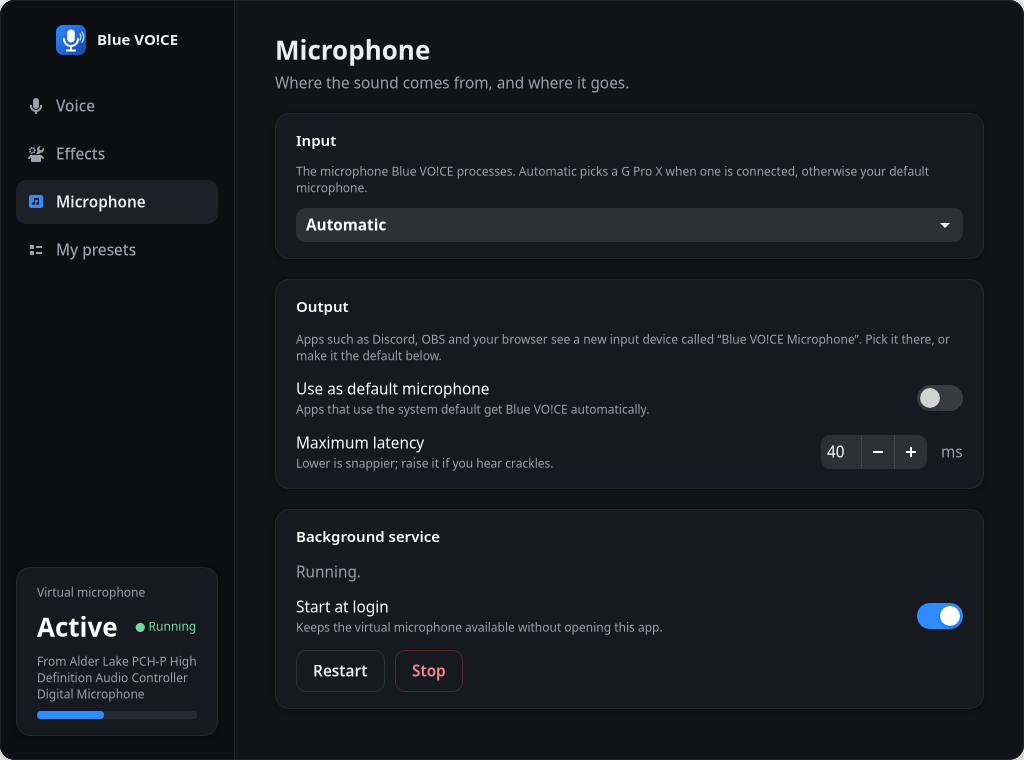
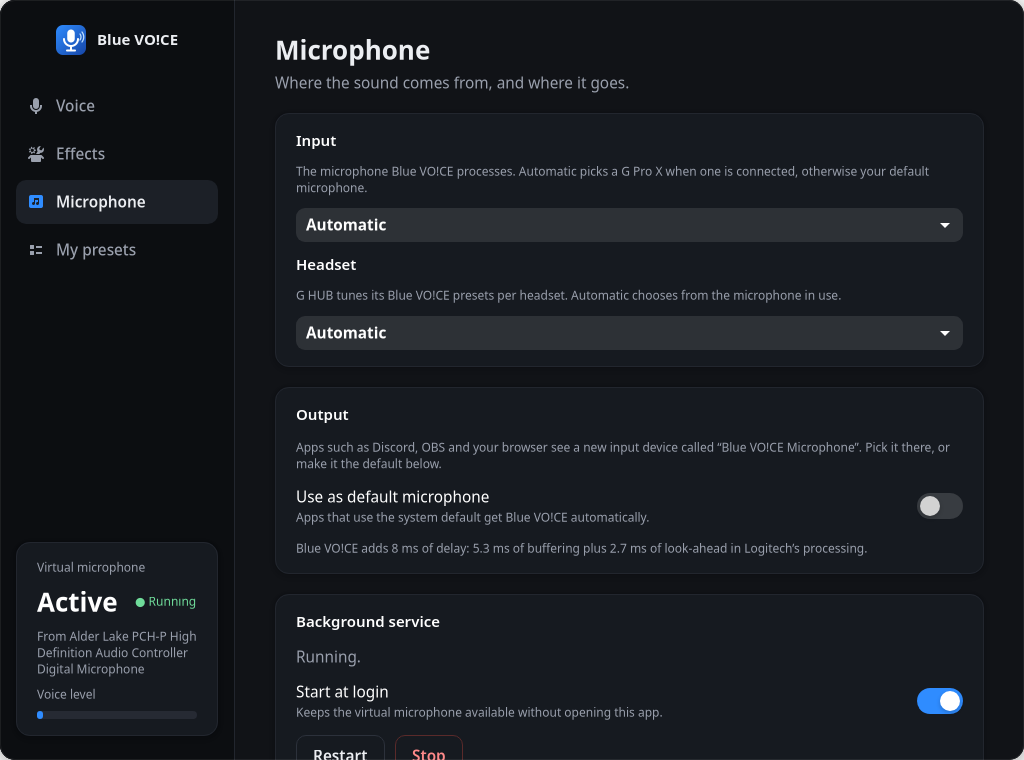
README rewrite, fresh screenshots, label the sidebar level meter
Claude-Session: https://claude.ai/code/session_01Uiivb3PxZfsMZ597LMVLgn

diff --git a/app.py b/app.py
@@ -634,8 +634,8 @@ class MainWindow(Adw.ApplicationWindow):
 		card.append(headline)
 		self.side_input = label('', ['muted', 'small'], wrap=True, max_width_chars=24)
 		card.append(self.side_input)
+		card.append(label('Voice level', ['muted', 'small']))
 		self.side_bar = meter_bar()
-		self.side_value = label('', ['value', 'small'])
 		card.append(self.side_bar)
 		side.append(card)
 		return side

diff --git a/README.md b/README.md
@@ -1,34 +1,33 @@
 # Blue VO!CE for Linux
 
-Logitech's Blue VO!CE microphone effects for the G Pro X headset, on Linux. The official
-G HUB software is Windows-only.
+I use a Logitech G Pro X, and the one thing I missed after moving to Linux was Blue VO!CE.
+G HUB only runs on Windows, so I took it apart to see where Blue VO!CE actually lives.
 
-This is not a remake: it runs **Logitech's own Blue VO!CE DSP** — the audio effect G HUB
-installs on Windows — natively, inside a small PipeWire filter (no Wine), and gives you its
-output as a normal microphone that any app can use. The output is bit-for-bit identical to the
-Windows effect for all 22 presets.
+Turns out it isn't in the headset at all. It's a Windows audio effect that G HUB installs, a
+DLL built on DTS's MicOpt library. This project loads that same DLL on Linux, without Wine,
+and puts the result on a virtual microphone. Same code Logitech ships, so it sounds the same:
+I checked all 22 presets against the Windows effect and the output is identical, sample for
+sample.
 
-![Voice page with live levels and the G HUB presets](docs/screenshots/voice.png)
+![Voice page](docs/screenshots/voice.png)
 
-## What it does
+## What you get
 
-- **Blue VO!CE on/off** — off is a clean pass-through, so apps keep their microphone
-- **All 22 G HUB presets** for the G Pro X — Broadcaster, AM Radio, FM Station, the pro-player
-  presets and more, with the exact values G HUB uses
-- **Every effect, live** — high-pass filter, noise reduction, noise gate, 3-band voice EQ,
-  de-esser, compressor and limiter, each with the same controls as G HUB's advanced mode;
-  changes crossfade in without clicks
-- **A virtual microphone** — “Blue VO!CE Microphone” shows up in Discord, OBS, your browser and
-  everything else, or becomes your default input with one switch
-- **Your own presets** — save, import and export
-- **Live meters** for your microphone and the processed voice
-- **Runs in the background** — closing the app keeps the virtual microphone working
+A new input device called **Blue VO!CE Microphone** that Discord, OBS, your browser or anything
+else can use, plus a small app to control it:
 
-## Screenshots
+- every Blue VO!CE preset G HUB has for the G Pro X (and the Pro X Wireless set too)
+- all the advanced controls: high-pass, noise reduction, noise gate, voice EQ, de-esser,
+  compressor and limiter. Changes apply while you talk, without clicks
+- save your own presets, import and export them
+- an on/off switch that keeps the device around, so your apps don't lose their mic
+
+It runs in the background, so you can close the app. Your real microphone is only opened while
+some app is actually recording from Blue VO!CE.
 
 | Effects | Microphone |
 | --- | --- |
-| ![Every Blue VO!CE stage with its controls](docs/screenshots/effects.png) | ![Input device, default microphone, latency and service](docs/screenshots/microphone.png) |
+| ![Effects page](docs/screenshots/effects.png) | ![Microphone page](docs/screenshots/microphone.png) |
 
 ## Install
 
@@ -38,13 +37,8 @@ cd Lghub
 ./install.sh
 ```
 
-The installer builds one small native helper, downloads Logitech's Blue VO!CE files straight
-from G HUB's own update server (they are not in this repository) and checks their SHA-256, adds
-a menu entry, and starts a user service. Nothing needs root, and Wine is not used.
-`./uninstall.sh` reverses all of it.
-
-**Requirements:** an x86-64 PC, Python 3 with GTK 4 and libadwaita, PipeWire with WirePlumber,
-and gcc with the PipeWire headers to build the helper.
+You need an x86-64 PC with PipeWire, Python with GTK 4 and libadwaita, and gcc to build the
+helper:
 
 | Distro | Packages |
 | --- | --- |
@@ -52,51 +46,47 @@ and gcc with the PipeWire headers to build the helper.
 | Fedora | `python3-gobject gtk4 libadwaita gcc pipewire-devel` |
 | Arch | `python-gobject gtk4 libadwaita gcc libpipewire` |
 
-## Using it
+The installer downloads Logitech's files from G HUB's own update server (they aren't in this
+repo), checks their hashes, builds the helper, adds a menu entry and starts a user service. No
+root needed. `./uninstall.sh` undoes all of it.
 
-Open **Blue VO!CE** from your menu, pick a preset, and choose **Blue VO!CE Microphone** as the
-input in your apps (or turn on *Use as default microphone*). The *Microphone* page picks your
-G Pro X automatically when it is plugged in; you can choose any other microphone there too.
+Then open **Blue VO!CE** from your menu, pick a preset, and select *Blue VO!CE Microphone* in
+your voice app. Or flip *Use as default microphone* and skip that step.
+
+## Is it heavy?
+
+No. While you're talking it uses about 4% of one CPU core and 7 MB of memory; when nothing is
+recording it's close to zero. It adds 8 ms of delay and doesn't change how the rest of your
+audio runs, so games aren't affected.
 
 ## How it works
 
-```
-G Pro X mic ──► bluevoice-bridge (PipeWire filter, runs Logitech's DSP in-process) ──► “Blue VO!CE Microphone”
-```
+The Windows effect (`logi_audio_dts_studio_capture_apo.dll`) exports the DSP directly:
+`dts_micopt_init`, `dts_micopt_set`, `dts_micopt_process` and a few more. So instead of
+emulating the Windows audio engine, `bridge/peloader.c` maps the DLL into a normal Linux
+process and gives it the handful of Windows functions that code path needs.
+`bridge/micopt.c` calls it the way the Windows effect does: 256-frame blocks, the same
+defaults, and the same quirks (on/off switches go in as integers, not floats). The
+`bluevoice-bridge` program wraps that in a PipeWire filter.
 
-- **`logi_audio_dts_studio_capture_apo.dll`** is the Windows audio effect G HUB installs for
-  Blue VO!CE, built on DTS MicOpt. `fetch.py` takes it from G HUB's `driver_audio_apo` package
-  and the presets from the `pro_headset` package.
-- The DLL exports the DSP itself (`dts_micopt_init`, `dts_micopt_set`, `dts_micopt_process`, …).
-  **`bridge/peloader.c`** loads the DLL into the Linux process — sections, relocations, and
-  stand-ins for the handful of Windows calls the DSP path makes — and **`bridge/micopt.c`** drives
-  it exactly as the Windows effect does (same block size, defaults and parameter encoding).
-- **`bridge/bluevoice-bridge`** is the PipeWire filter: microphone in, MicOpt in 256-frame blocks,
-  virtual microphone out, 8 ms of added delay. Settings changes build a new DSP instance, warm it
-  up and crossfade, so switching presets doesn't click.
-- **`engine.py`** (the `lghub-bluevoice` user service) runs the bridge, opens your microphone only
-  while some app uses Blue VO!CE, follows replugs, and applies your settings; **`app.py`** is the
-  GTK interface.
+`engine.py` is the background service. It starts the bridge, connects your mic to it when an
+app is listening, and applies whatever you change in `app.py`.
 
-[docs/apo-parameters.md](docs/apo-parameters.md) lists every Blue VO!CE parameter with its units
-and defaults, as recovered from the DLL.
+Every parameter, its unit and its default is written down in
+[docs/apo-parameters.md](docs/apo-parameters.md).
 
-### Verified against Windows
+To check the result, `host/bluevoice_host.c` loads the same DLL the way Windows does (as a COM
+audio effect, under Wine) and `host/compare_native.py` feeds both the same recording.
 
-`host/bluevoice_host.c` hosts the same DLL the way the Windows audio engine does (as a COM audio
-effect, under Wine), and `host/compare_native.py` runs both on the same recording. For every
-stage and all 22 G HUB presets the native output is identical, sample for sample.
+## If something's off
 
-## Troubleshooting
+`systemctl --user status lghub-bluevoice` and `journalctl --user -u lghub-bluevoice` show what
+the service is doing. If the installer says a download doesn't match, Logitech has released a
+new version of the files; open an issue. If you have the files from somewhere else you can
+point the installer at them with `./install.sh --depot-dir DIR`.
 
-- **No “Blue VO!CE Microphone”** — `systemctl --user status lghub-bluevoice` and
-  `journalctl --user -u lghub-bluevoice` show what the service is doing.
-- **Install says a depot doesn't match** — Logitech published a new version. Install G HUB's
-  files from another source with `./install.sh --depot-dir DIR` (a folder holding
-  `driver_audio_apo.depot` and `pro_headset.depot`), or open an issue.
+## Notes
 
-## Disclaimer
-
-Not affiliated with Logitech. Blue VO!CE, G HUB and G Pro X are Logitech trademarks; DTS is a
-trademark of DTS, Inc. This project only contains its own code; Logitech's files are downloaded
-from Logitech at install time and used on your own machine.
+Not affiliated with Logitech. Blue VO!CE, G HUB and G Pro X are Logitech's trademarks, DTS is
+DTS, Inc.'s. This repo only has my own code; Logitech's files are downloaded from Logitech when
+you install and stay on your machine.

diff --git a/TODO.md b/TODO.md
@@ -14,26 +14,22 @@ Working, tested on this machine with the laptop microphone:
 - `app.py`: Voice / Effects / Microphone / My presets pages, live meters, service controls.
 - `install.sh` / `uninstall.sh`, `fetch.py` (downloads + verifies Logitech's files).
 
+## Done since
+
+- Native: no Wine. The DLL's DSP runs in-process; identical to the Windows effect (all 22 presets).
+- Mic only open while an app records from Blue VO!CE; ~0% CPU when idle.
+- Pro X Wireless preset set; sample-rate changes handled (44.1–192 kHz).
+
 ## Needs the headset
 
 1. **Test with the G Pro X**: check Automatic picks it (`pw.is_pro_x` matches "PRO X" in the
    node name/description — confirm the real name), check levels and that presets sound like
    Windows. The G Pro X USB adapter's mic may be stereo or mono; `pw.capture_port` takes MONO,
    else FL.
-2. **G Pro X Wireless**: `fetch.py` already saves `pro_x_wireless_headset_device_presets.json`;
-   load those presets when a wireless headset is detected (likely identical).
 
 ## Improvements
 
-- **Mic only open while used**: the service keeps the real mic linked (so it's always open while
-  Blue VO!CE runs). Try passive links (`pw-link --passive`) plus a shared `node.group`, and check
-  the mic still starts when an app records from the virtual mic.
-- **Latency**: measure end-to-end (APO 8 ms + host block 10 ms + ring). Possibly smaller host
-  blocks (APO accepts any frame count?).
-- **Depot updates**: the depot URLs/hashes in `fetch.py` are from G HUB 2026.6. Logitech may
-  remove them; add a fallback that finds the current URLs (G HUB's pipeline API is signed
-  protobuf — or read `C:\ProgramData\LGHUB\current.json` from an existing G HUB install).
+- **Depot updates**: `fetch.py`'s URLs/hashes are from G HUB 2026.6, and `micopt.c` has two
+  offsets specific to this DLL build. A newer DLL needs those offsets re-checked.
 - **Blue VO!CE 2** (newer headsets): `logi_audio_dts_clearvoice_2_capture_apo.dll`, same approach.
-- **Packaging**: prebuilt `bluevoice_host.exe` in releases so MinGW isn't required.
-- Stream-based virtual sources can't be recorded from on PipeWire 1.4.2 / WirePlumber here (even
-  pw-loopback's fail: "no more input formats"); that's why the bridge uses a null-audio node.
+- Other Blue VO!CE 1 headsets (G733, …): same DLL; only their preset file and device name.
